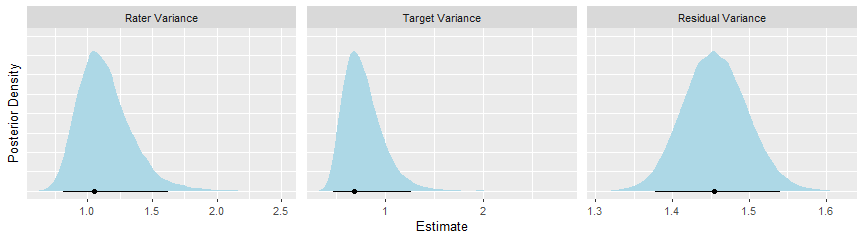
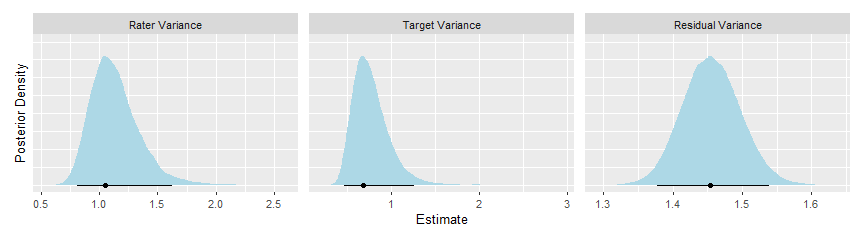
Adjust margins and panel spacing for posterior facet plots

diff --git a/README.md b/README.md
@@ -151,7 +151,7 @@ res_2
 
 ``` r
 # Create density plot of all posteriors
-plot(res_2, panel_spacing = 6)
+plot(res_2)
 ```
 
 <img src="man/figures/README-p2a-1.png" width="100%" />
